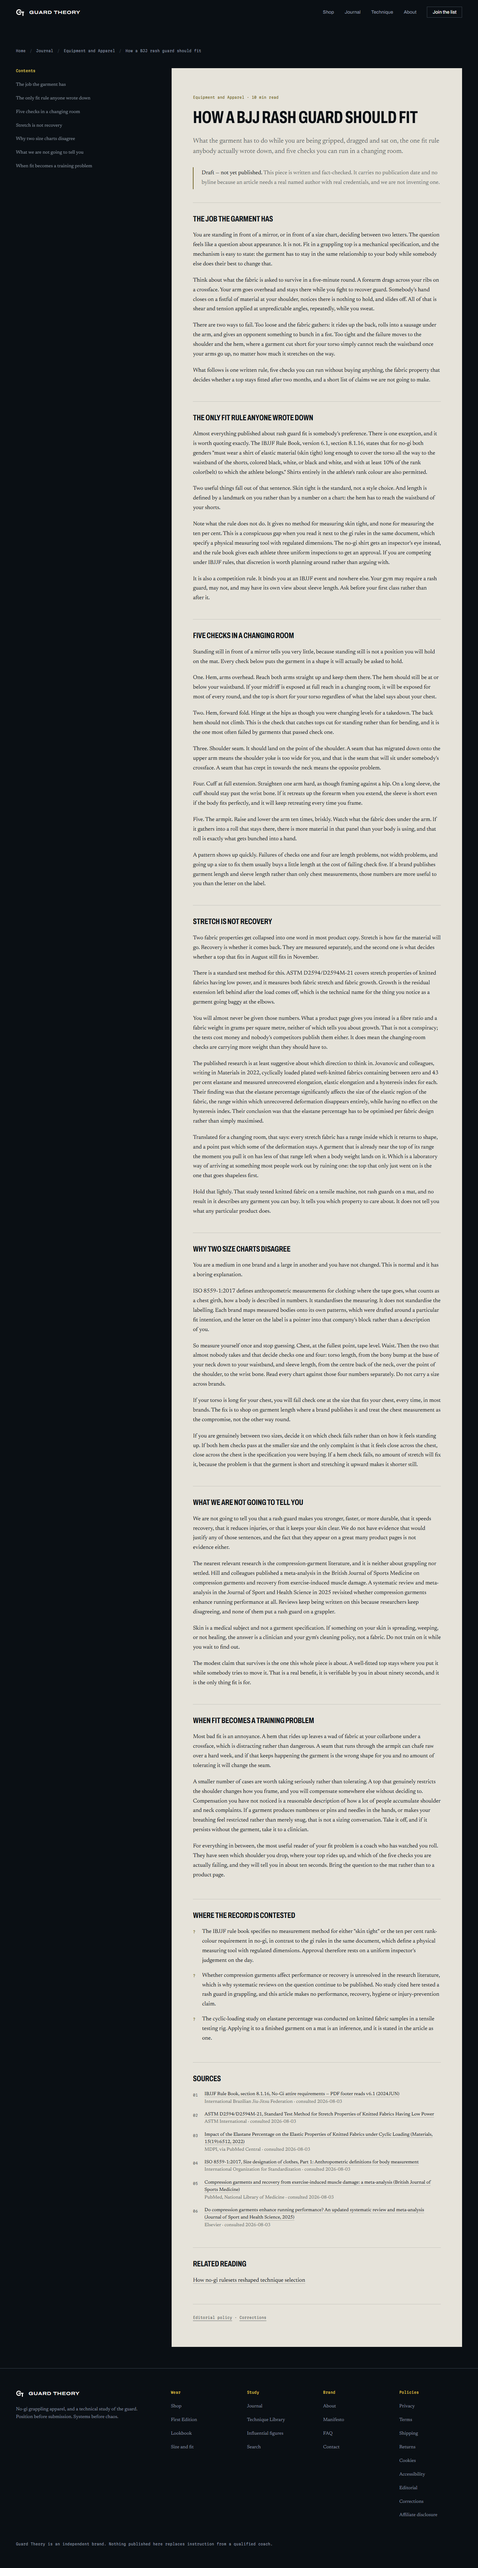
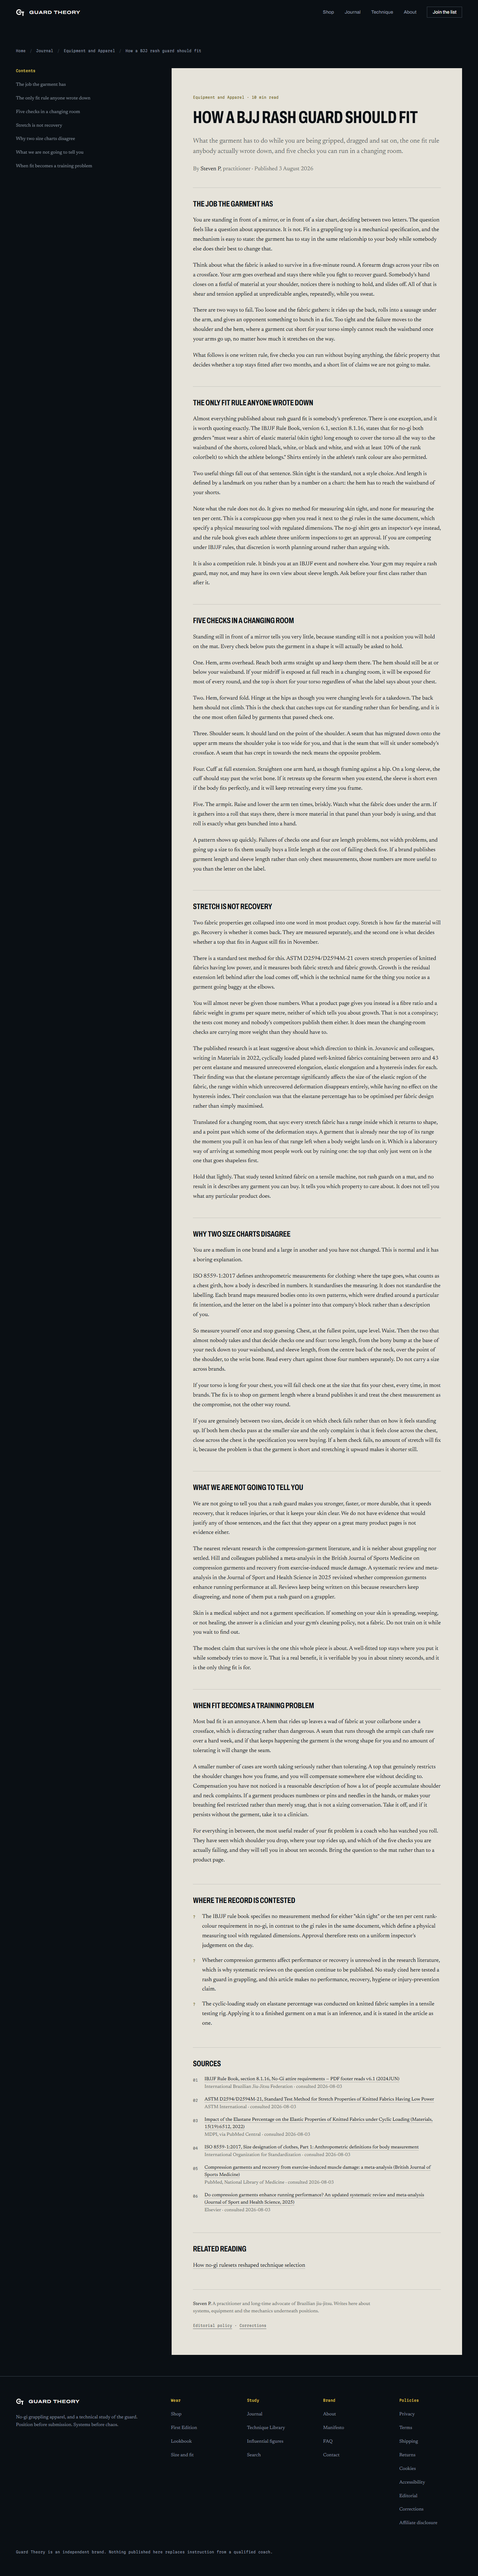
feat(journal): real bylines, six flagships published
Rick R and Steven P, credited exactly as supplied - a self-defence advocate of
twenty years and a practitioner and long-time advocate. No belt ranks, no gym
affiliations, no years invented around either.

Six flagships published with today's date and Person schema; the six shorter
pieces stay drafts.

Fixes a real bug the metadata test caught the moment articles went live:
returning robots: undefined from a page does not inherit the layout, it removes
the tag - so published articles silently became indexable with the site-wide
opt-in still off. Robots is now stated explicitly in both directions.

Changed region(s): [[0.4062, 0.0624, 0.9062, 0.905], [0.8438, 0.9362, 0.875, 0.9674], [0.0938, 0.0312, 0.125, 0.0624]]

diff --git a/src/app/journal/[slug]/page.tsx b/src/app/journal/[slug]/page.tsx
@@ -9,7 +9,8 @@ import {
   isPublished,
   readingTimeMinutes,
 } from "@/content/journal";
-import { absoluteUrl } from "@/lib/site";
+import { IS_INDEXABLE, absoluteUrl } from "@/lib/site";
+import { getAuthor } from "@/content/authors";
 
 type Params = { params: Promise<{ slug: string }> };
 
@@ -26,12 +27,18 @@ export async function generateMetadata({ params }: Params): Promise<Metadata> {
     title: article.title,
     description: article.standfirst,
     alternates: { canonical: `/journal/${article.slug}` },
-    // A draft is readable but is not offered to search. It has no publication
+    // Stated explicitly in BOTH directions, never left to inherit. Returning
+    // `robots: undefined` from a page does not fall back to the layout - it
+    // removes the tag, which silently made published articles indexable even
+    // with the site-wide opt-in switched off.
+    //
+    // A draft is readable but never offered to search: it has no publication
     // date, and indexing something undated as though it were published is the
     // exact dishonesty the editorial policy rules out.
-    robots: isPublished(article)
-      ? undefined
-      : { index: false, follow: true },
+    robots:
+      IS_INDEXABLE && isPublished(article)
+        ? { index: true, follow: true }
+        : { index: false, follow: true },
   };
 }
 
@@ -48,6 +55,7 @@ export default async function ArticlePage({ params }: Params) {
     .filter((a): a is NonNullable<typeof a> => Boolean(a));
 
   const published = isPublished(article);
+  const author = published ? getAuthor(article.authorId) : undefined;
 
   /**
    * Article structured data is emitted only for genuinely published pieces.
@@ -64,6 +72,15 @@ export default async function ArticlePage({ params }: Params) {
         datePublished: article.publishedAt,
         ...(article.updatedAt ? { dateModified: article.updatedAt } : {}),
         articleSection: category.name,
+        ...(author
+          ? {
+              author: {
+                "@type": "Person",
+                name: author.name,
+                description: author.bio,
+              },
+            }
+          : {}),
         publisher: { "@id": absoluteUrl("/#organization") },
         mainEntityOfPage: absoluteUrl(`/journal/${article.slug}`),
       }
@@ -124,6 +141,22 @@ export default async function ArticlePage({ params }: Params) {
                   {article.title}
                 </h1>
                 <p className="mt-7 text-lg text-slate">{article.standfirst}</p>
+
+                {published && author ? (
+                  <p className="mt-6 text-base text-slate">
+                    By <span className="text-ink">{author.name}</span>,{" "}
+                    {author.role.toLowerCase()} · Published{" "}
+                    <time dateTime={(article as { publishedAt: string }).publishedAt}>
+                      {new Date(
+                        (article as { publishedAt: string }).publishedAt,
+                      ).toLocaleDateString("en-GB", {
+                        day: "numeric",
+                        month: "long",
+                        year: "numeric",
+                      })}
+                    </time>
+                  </p>
+                ) : null}
 
                 {!published ? (
                   <p className="mt-8 border-l-2 border-signal-dim py-1 pl-6 text-base text-slate">
@@ -228,6 +261,11 @@ export default async function ArticlePage({ params }: Params) {
               ) : null}
 
               <footer className="mt-14 border-t border-slate/25 pt-8">
+                {author ? (
+                  <p className="mb-6 max-w-[34rem] text-sm text-slate">
+                    <span className="text-ink">{author.name}.</span> {author.bio}
+                  </p>
+                ) : null}
                 <p className="notation text-2xs text-slate">
                   <Link
                     href="/policies/editorial"

diff --git a/src/content/authors.ts b/src/content/authors.ts
@@ -1,0 +1,41 @@
+/**
+ * Authors.
+ *
+ * Every field here is what the owner supplied, stated at exactly the strength
+ * it was given and no stronger. There are deliberately no belt ranks, no gym
+ * affiliations and no years of training beyond what was stated — inventing a
+ * rank on a jiu-jitsu site would be the single most damaging thing this project
+ * could publish, and an advocate is not the same claim as a competitor.
+ *
+ * If a credential is added later it comes from the person, not from inference.
+ */
+
+export type Author = {
+  id: string;
+  name: string;
+  /** One line, shown under the headline. */
+  role: string;
+  /** Two sentences at most, shown on the article footer. */
+  bio: string;
+};
+
+export const AUTHORS: Author[] = [
+  {
+    id: "rick-r",
+    name: "Rick R",
+    role: "Self-defence advocate",
+    bio: "Has advocated for Brazilian jiu-jitsu as self-defence for twenty years. Writes here about how the art travelled, what changed it, and what it is actually for.",
+  },
+  {
+    id: "steven-p",
+    name: "Steven P",
+    role: "Practitioner",
+    bio: "A practitioner and long-time advocate of Brazilian jiu-jitsu. Writes here about systems, equipment and the mechanics underneath positions.",
+  },
+];
+
+const BY_ID = new Map(AUTHORS.map((author) => [author.id, author]));
+
+export function getAuthor(id: string): Author | undefined {
+  return BY_ID.get(id);
+}

diff --git a/src/content/journal/entries/drilling-rehearsing-and-positional-sparring.ts b/src/content/journal/entries/drilling-rehearsing-and-positional-sparring.ts
@@ -1,4 +1,4 @@
-import type { DraftArticle } from "../types.ts";
+import type { PublishedArticle } from "../types.ts";
 
 /**
  * A training-culture piece that had to be built almost entirely from adjacent
@@ -10,8 +10,10 @@ import type { DraftArticle } from "../types.ts";
  * academic dispute. Both sides are named in the body text. No medical, injury
  * or recovery claim appears anywhere in the piece.
  */
-export const drillingRehearsingAndPositionalSparring: DraftArticle = {
-  status: "draft",
+export const drillingRehearsingAndPositionalSparring: PublishedArticle = {
+  status: "published",
+  publishedAt: "2026-08-04",
+  authorId: "rick-r",
   slug: "drilling-rehearsing-and-positional-sparring",
   category: "training-culture",
   title: "Drilling, rehearsing, and what positional sparring changes",

diff --git a/src/content/journal/entries/why-sport-jiu-jitsu-does-not-transfer-directly-to-mma.ts b/src/content/journal/entries/why-sport-jiu-jitsu-does-not-transfer-directly-to-mma.ts
@@ -1,4 +1,4 @@
-import type { DraftArticle } from "../types.ts";
+import type { PublishedArticle } from "../types.ts";
 
 /**
  * Argued entirely from rule documents: the ABC Unified Rules of MMA as amended
@@ -11,8 +11,10 @@ import type { DraftArticle } from "../types.ts";
  * The one empirical citation is a published performance analysis, used for its
  * sample-level medians only.
  */
-export const whySportJiuJitsuDoesNotTransferDirectlyToMma: DraftArticle = {
-  status: "draft",
+export const whySportJiuJitsuDoesNotTransferDirectlyToMma: PublishedArticle = {
+  status: "published",
+  publishedAt: "2026-08-04",
+  authorId: "rick-r",
   slug: "why-sport-jiu-jitsu-does-not-transfer-directly-to-mma",
   category: "mma-and-jiu-jitsu",
   title: "Why sport jiu-jitsu does not transfer directly to MMA",

diff --git a/src/content/journal/entries/how-no-gi-rulesets-reshaped-technique-selection.ts b/src/content/journal/entries/how-no-gi-rulesets-reshaped-technique-selection.ts
@@ -1,4 +1,4 @@
-import type { DraftArticle } from "../types.ts";
+import type { PublishedArticle } from "../types.ts";
 
 /**
  * Argued almost entirely from published rule books rather than from match
@@ -6,8 +6,10 @@ import type { DraftArticle } from "../types.ts";
  * competition results repeated second-hand are the easiest thing in grappling
  * writing to get wrong.
  */
-export const howNoGiRulesetsReshapedTechniqueSelection: DraftArticle = {
-  status: "draft",
+export const howNoGiRulesetsReshapedTechniqueSelection: PublishedArticle = {
+  status: "published",
+  publishedAt: "2026-08-04",
+  authorId: "steven-p",
   slug: "how-no-gi-rulesets-reshaped-technique-selection",
   category: "competition-analysis",
   title: "How no-gi rulesets reshaped technique selection",

diff --git a/tests/e2e/metadata.spec.ts b/tests/e2e/metadata.spec.ts
@@ -88,7 +88,12 @@ test("indexable pages are indexable and the rest are not", async ({ page }) => {
   // A draft article renders, but must never be offered to a crawler: it has no
   // publication date, and indexing an undated piece as published is exactly
   // what the editorial policy rules out.
-  await page.goto("/journal/how-a-bjj-rash-guard-should-fit", {
+  //
+  // Uses a piece that is still a draft. When the flagships were published this
+  // assertion caught a real regression - the page returned robots: undefined,
+  // which removes the tag rather than inheriting the layout, so the article
+  // became indexable despite the site-wide opt-in being off.
+  await page.goto("/journal/how-to-wash-a-rash-guard", {
     waitUntil: "load",
   });
   const draftRobots =

diff --git a/src/content/journal/entries/maeda-and-the-arrival-of-judo-in-brazil.ts b/src/content/journal/entries/maeda-and-the-arrival-of-judo-in-brazil.ts
@@ -1,4 +1,4 @@
-import type { DraftArticle } from "../types.ts";
+import type { PublishedArticle } from "../types.ts";
 
 /**
  * The house position on history: where the record is contested, the article
@@ -6,8 +6,10 @@ import type { DraftArticle } from "../types.ts";
  * Every disputed claim here carries at least two independent sources that
  * disagree with each other, and the disagreement is the point.
  */
-export const maedaAndTheArrivalOfJudoInBrazil: DraftArticle = {
-  status: "draft",
+export const maedaAndTheArrivalOfJudoInBrazil: PublishedArticle = {
+  status: "published",
+  publishedAt: "2026-08-04",
+  authorId: "rick-r",
   slug: "maeda-and-the-arrival-of-judo-in-brazil",
   category: "bjj-history",
   title: "Maeda, and the arrival of judo in Brazil",

diff --git a/src/content/journal/entries/how-a-bjj-rash-guard-should-fit.ts b/src/content/journal/entries/how-a-bjj-rash-guard-should-fit.ts
@@ -1,12 +1,14 @@
-import type { DraftArticle } from "../types.ts";
+import type { PublishedArticle } from "../types.ts";
 
 /**
  * Equipment writing with a commercial term in the title and no commercial ask
  * in the body. The test applied to every paragraph: does a reader who buys
  * nothing still leave with something they can use tonight?
  */
-export const howABjjRashGuardShouldFit: DraftArticle = {
-  status: "draft",
+export const howABjjRashGuardShouldFit: PublishedArticle = {
+  status: "published",
+  publishedAt: "2026-08-04",
+  authorId: "steven-p",
   slug: "how-a-bjj-rash-guard-should-fit",
   category: "equipment-and-apparel",
   title: "How a BJJ rash guard should fit",

diff --git a/src/content/journal/entries/guard-retention-as-a-system.ts b/src/content/journal/entries/guard-retention-as-a-system.ts
@@ -1,4 +1,4 @@
-import type { DraftArticle } from "../types.ts";
+import type { PublishedArticle } from "../types.ts";
 
 /**
  * Written to separate three things that normally arrive glued together: what
@@ -11,8 +11,10 @@ import type { DraftArticle } from "../types.ts";
  * Makes no claim that any of this improves anybody's guard. No such study
  * exists.
  */
-export const guardRetentionAsASystem: DraftArticle = {
-  status: "draft",
+export const guardRetentionAsASystem: PublishedArticle = {
+  status: "published",
+  publishedAt: "2026-08-04",
+  authorId: "steven-p",
   slug: "guard-retention-as-a-system",
   category: "guard-systems",
   title: "Guard retention as a system",
